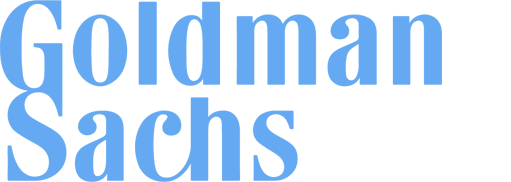
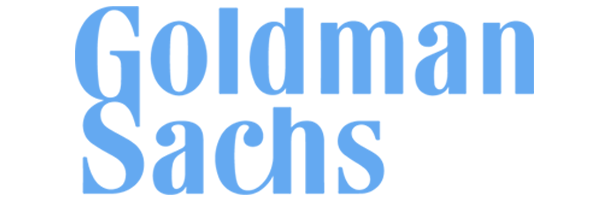
Add new sponsors and fix date

diff --git a/bds_site/index.html b/bds_site/index.html
@@ -15,8 +15,8 @@
   <!-- [if lt IE 9]><script src="https://cdnjs.cloudflare.com/ajax/libs/html5shiv/3.7.3/html5shiv.min.js" type="text/javascript"></script><![endif] -->
   <script type="text/javascript">!function(o,c){var n=c.documentElement,t=" w-mod-";n.className+=t+"js",("ontouchstart"in o||o.DocumentTouch&&c instanceof DocumentTouch)&&(n.className+=t+"touch")}(window,document);</script>
 
-  <link rel="icon" 
-  type="image/png" 
+  <link rel="icon"
+  type="image/png"
   href="favicon.ico">
     <link href="https://daks2k3a4ib2z.cloudfront.net/img/webclip.png" rel="apple-touch-icon">
 </head>
@@ -42,7 +42,7 @@
 
   </section>
   <section id="About" class="section work-section">
-      <br> 
+      <br>
 
         <div class="w-row">
             <h2 class="section-heading center">About</h2>
@@ -116,7 +116,7 @@
                         <br/>
                         <div class="center-container">
                             <p class="navy-text left"> Work with a team of students to build an awesome project using our data sets. Hear about the most cutting-edge developments in the realm of data science. Network with faculty and industry professionals from top technology companies. </p>
-                        </div>                            
+                        </div>
 
                         </div>
                         <div class="w-col w-col-6">
@@ -182,6 +182,24 @@
                          </div>
                     </div>
                 </div>
+                <div class="w-row">
+                    <div class="wide-container work-container w-container">
+                        <div class="w-col w-col-4">
+                            <div class="center-container wrap-collabsible">
+                                  <input id="" class="toggle" type="checkbox">
+                                  <label for="" class="label-toggle"><a href = "https://www.goldmansachs.com/"><img class="sponsor large" src="images/main/goldman.png"></a></label>
+                            </div>
+                        </div>
+                        <div class="w-col w-col-4">
+                             <div class="center-container wrap-collabsible">
+                                  <input id="" class="toggle" type="checkbox">
+                                  <label for="" class="label-toggle"><a href = ""><img class="sponsor large" src="images/main/tripadvisor.png"></a></label>
+                             </div>
+                         </div>
+                        <div class="w-col w-col-4">
+                         </div>
+                    </div>
+                </div>
             </div>
         </div>
         <br/>
@@ -193,10 +211,7 @@
                 <div class="w-row">
                     <div class="wide-container work-container w-container">
                         <div class="w-col w-col-4">
-                             <div class="center-container section-heading featured">
-                                <a href = "https://www.goldmansachs.com/"><img class="sponsor small" src="images/main/goldman.png"></a>
-                             </div>
-                         </div>
+                        </div>
                         <div class="w-col w-col-4">
                              <div class="center-container section-heading featured">
                                 <a href = "https://upserve.com/"><img class="sponsor small" src="images/main/upserve.png"></a>
@@ -333,7 +348,7 @@
                 <div class="wide-container work-container w-container">
                     <div class="w-col w-col-3 team-item competition">
                         <div class="center-container">
-                            <img class="team-image" src="images/main/team/temp.png">
+                            <img class="team-image" src="images/main/team/rajyashri.png">
                             <div class="section-heading featured"><span class=''>Rajyashri Battula</span></div>
                         </div>
                     </div>

diff --git a/bds_site/css/bds.webflow.css b/bds_site/css/bds.webflow.css
@@ -325,7 +325,7 @@ p {
   line-height: 62px;
   text-align: center;
   text-transform: uppercase;
-  
+
 }
 
 .hero-h1.datathon {
